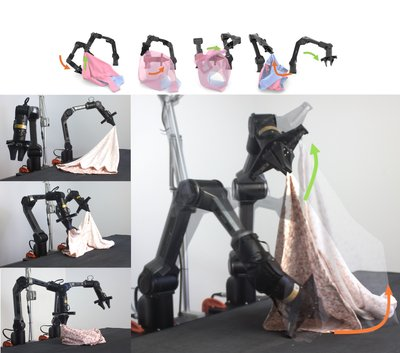
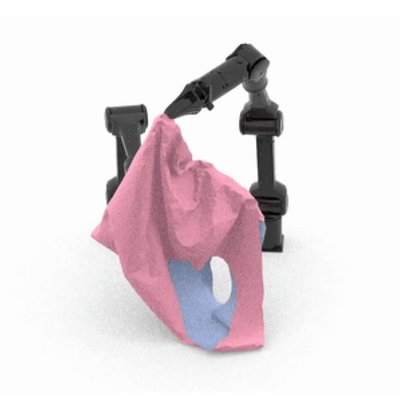
auto publish

diff --git a/publication/index.html b/publication/index.html
@@ -401,6 +401,206 @@
 <li>
     <div class="row">
         <div class="col-lg-1 col-md-1 col-sm-1 col-xs-1" align="center">
+            <img class="rounded-circle publication-preview" src="/aivc/img/publication/ma2026taccorl.png" height="100px">
+        </div>
+        <div class="col-lg-10 col-md-10 col-sm-10 col-xs-10"  style="margin-left:20px;">
+        <h5 class= "title" style="margin-bottom:0px;">TacCoRL: Integrating Tactile Feedback into VLA via Simulation</h5> 
+        <div class= "author">
+            
+            
+            
+            
+                
+                    
+                    
+                
+            
+                
+                    
+                    
+                
+            
+                
+                    
+                    
+                
+            
+                
+            
+                
+            
+                
+            
+                
+            
+                
+            
+            
+                Siyu Ma*, 
+            
+                Yuqi Liang*, 
+            
+                Chang Yu*† (equal contributions), 
+            
+                Yunuo Chen, 
+            
+                Hao Su, 
+            
+                Yixin Zhu, 
+            
+                Yin Yang, 
+            
+                Chenfanfu Jiang.
+            
+        </div>
+        <p class= "press"  style="margin-bottom:0px;">
+        <i>arXiv. 
+        2026.</i>
+        </p>
+        
+        <p style="margin-top: 4px;">
+        
+            
+            
+            <a href="https://arxiv.org/abs/2606.11743" target="_blank" style="text-decoration: none;"> 
+            <button type="button" class="btn btn-sm btn-secondary" style="margin-top:-5px; block-size: 22px; background-color: #8BB8E8; border: 0;"> 
+                
+                    
+                    <div style="margin-top: -4px;"> Preprint </div> 
+                    
+                
+            </button> 
+            </a>
+        
+        
+            <a href="https://tac-corl.github.io/" target="_blank" style="text-decoration: none;"> 
+            <button type="button" class="btn btn-sm btn-secondary" style="margin-top:-5px; block-size: 22px; background-color: #8BB8E8; border: 0;"> 
+                <div style="margin-top: -4px;"> Project Page </div> 
+            </button> 
+            </a>
+        
+        
+        
+        
+        </p>
+        </div>  
+    </div>
+    <p hidden class="keyword">
+        Papers
+        
+    </p>
+    <p hidden class="tag">
+        
+        Embodiment and Robots
+        
+        Simulation/Design
+        
+        Robot Learning
+        
+    </p>
+</li>
+
+<li>
+    <div class="row">
+        <div class="col-lg-1 col-md-1 col-sm-1 col-xs-1" align="center">
+            <img class="rounded-circle publication-preview" src="/aivc/img/publication/guo2026sparse2act.png" height="100px">
+        </div>
+        <div class="col-lg-10 col-md-10 col-sm-10 col-xs-10"  style="margin-left:20px;">
+        <h5 class= "title" style="margin-bottom:0px;">Sparse2Act: Learning Action-Aligned Sparse 3D Representations for Cross-Domain Robot Manipulation</h5> 
+        <div class= "author">
+            
+            
+            
+            
+                
+                    
+                    
+                
+            
+                
+                    
+                    
+                
+            
+                
+                    
+                    
+                
+            
+                
+            
+                
+            
+                
+            
+                
+            
+            
+                Yu Guo*, 
+            
+                Chang Yu*, 
+            
+                Siyu Ma* (equal contributions), 
+            
+                Yunuo Chen, 
+            
+                Yin Yang, 
+            
+                Ying Nian Wu, 
+            
+                Chenfanfu Jiang.
+            
+        </div>
+        <p class= "press"  style="margin-bottom:0px;">
+        <i>arXiv. 
+        2026.</i>
+        </p>
+        
+        <p style="margin-top: 4px;">
+        
+            
+            
+            <a href="https://arxiv.org/abs/2606.12759" target="_blank" style="text-decoration: none;"> 
+            <button type="button" class="btn btn-sm btn-secondary" style="margin-top:-5px; block-size: 22px; background-color: #8BB8E8; border: 0;"> 
+                
+                    
+                    <div style="margin-top: -4px;"> Preprint </div> 
+                    
+                
+            </button> 
+            </a>
+        
+        
+            <a href="https://sparse2act.github.io/Sparse2Act/" target="_blank" style="text-decoration: none;"> 
+            <button type="button" class="btn btn-sm btn-secondary" style="margin-top:-5px; block-size: 22px; background-color: #8BB8E8; border: 0;"> 
+                <div style="margin-top: -4px;"> Project Page </div> 
+            </button> 
+            </a>
+        
+        
+        
+        
+        </p>
+        </div>  
+    </div>
+    <p hidden class="keyword">
+        Papers
+        
+    </p>
+    <p hidden class="tag">
+        
+        Embodiment and Robots
+        
+        Robot Learning
+        
+        3D/4D Generation and Understanding
+        
+    </p>
+</li>
+
+<li>
+    <div class="row">
+        <div class="col-lg-1 col-md-1 col-sm-1 col-xs-1" align="center">
             <img class="rounded-circle publication-preview" src="/aivc/img/publication/xie2026grail.jpg" height="100px">
         </div>
         <div class="col-lg-10 col-md-10 col-sm-10 col-xs-10"  style="margin-left:20px;">

diff --git a/research/solid/inelasticity/index.html b/research/solid/inelasticity/index.html
@@ -346,6 +346,10 @@
 
 
 
+
+
+
+
     <div class="col-lg-2 col-md-2 col-sm-2 col-xs-2">
         <img class="rounded-circle publication-preview" src="/aivc/img/publication/fang2019silly.jpg">
     </div>
@@ -509,6 +513,10 @@
 
 
 <div class="row publication-card-blog">
+
+
+
+
 
 
 

diff --git a/research/fabrication/topoopt/index.html b/research/fabrication/topoopt/index.html
@@ -324,6 +324,10 @@ Here $\mathbf{Du} = \mathbf{0}$ is the discretized Dirichlet boundary condition 
 
 
 
+
+
+
+
     <div class="col-lg-2 col-md-2 col-sm-2 col-xs-2">
         <img class="rounded-circle publication-preview" src="/aivc/img/publication/li2021leto.jpg">
     </div>